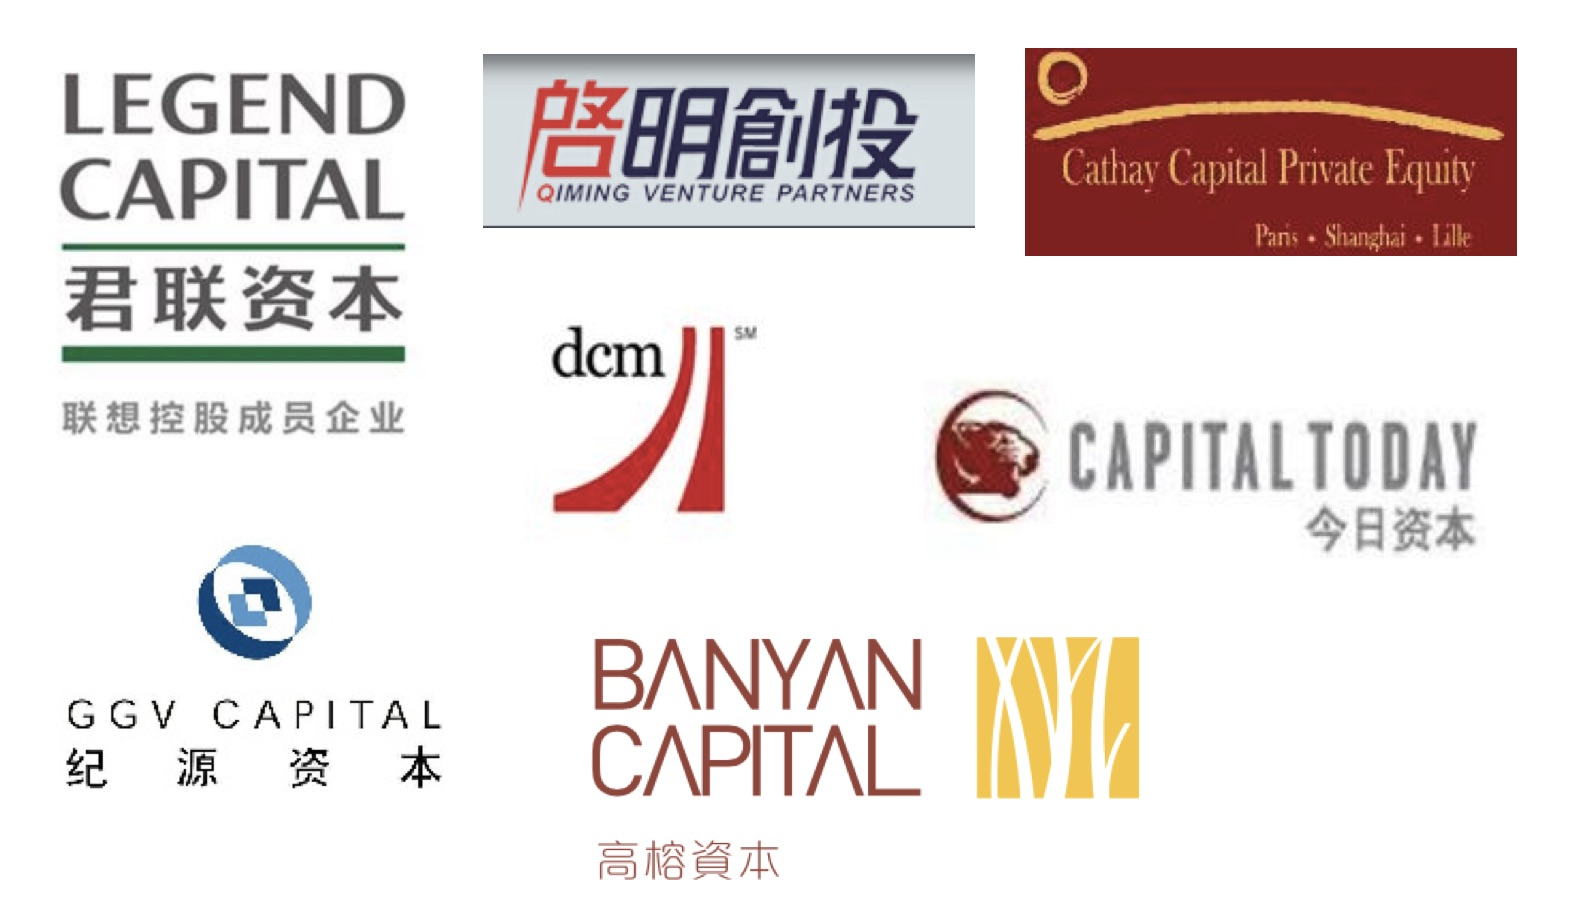
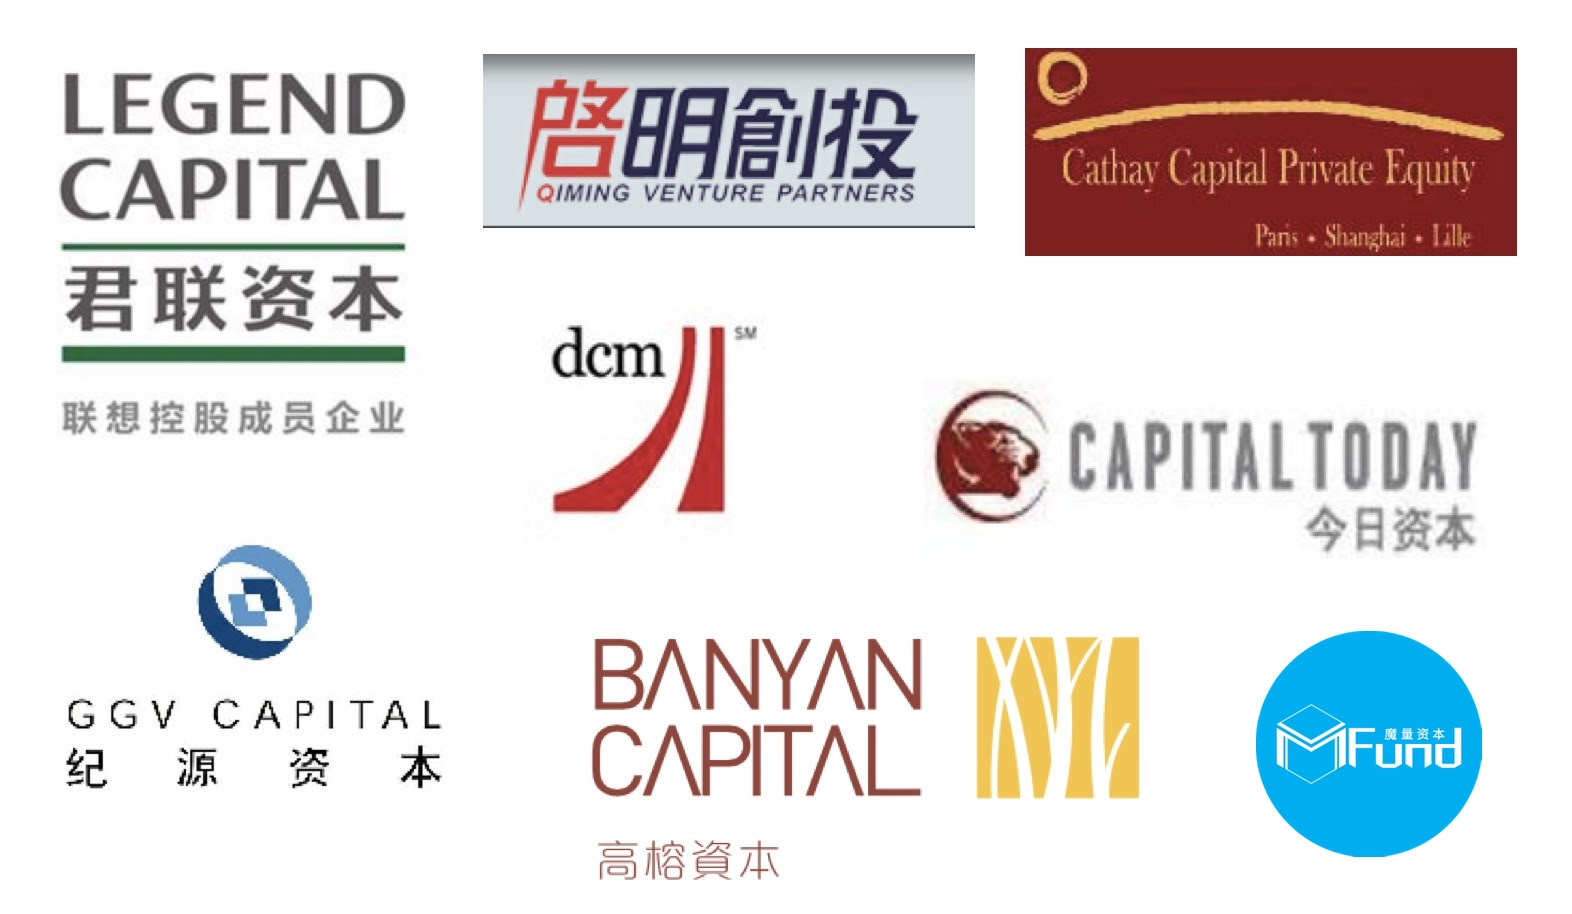
Fits mobile screen.

Changed region(s): [[0.7793, 0.674, 0.9663, 0.9497]]

diff --git a/assets/index.css b/assets/index.css
@@ -1,1 +1,1 @@
-body,html{height:100%;margin:0;font-family:-apple-system,BlinkMacSystemFont,Segoe UI,Roboto,Helvetica,Arial,sans-serif;font-size:14px;line-height:1.8em;color:#333;background-color:#fff}a{color:#555;text-decoration:none}a:hover{color:#000;border-bottom:1px solid #000}.content-wrapper{width:1000px;margin:0 auto}header{font-size:1.2rem;line-height:6rem;position:fixed;top:0;width:100%;z-index:1;background-color:hsla(0,0%,100%,.7)}.logo{display:inline-block;font-weight:700}.logo svg{position:relative;top:3px;width:19px;height:19px;margin-right:.3rem}.nav{float:right;font-weight:200}.nav a{font-size:1rem;margin-left:2.5rem}#contact-us,#our-clients{background-color:#f5f5f5}#our-service{background:url(mbg-light.jpg) no-repeat 50%;background-size:cover;height:100%}#our-service .content-wrapper{box-sizing:border-box;padding-top:85px;-webkit-flex-direction:row;-ms-flex-direction:row;flex-direction:row;height:100%}#our-service .content-wrapper,.hero{display:-webkit-flex;display:-ms-flexbox;display:flex}.hero{-webkit-flex:1;-ms-flex:1;flex:1;font-size:2.5rem;letter-spacing:1.2rem;text-align:center;line-height:100%;-webkit-justify-content:center;-ms-flex-pack:center;justify-content:center}.hero,.services-list{-webkit-align-items:center;-ms-flex-align:center;align-items:center}.services-list{width:50%}.services-list,.services-list .content-wrapper{display:-webkit-flex;display:-ms-flexbox;display:flex}.services-list .content-wrapper{background-color:hsla(0,0%,100%,.8);-webkit-justify-content:space-around;-ms-flex-pack:distribute;justify-content:space-around}.service-item{min-width:300px;background-color:hsla(0,0%,100%,.5);padding:1rem 2.4rem}.service-item dd,.service-item dt{margin:2.2rem 0}.service-item dt{font-size:1.5rem;font-weight:700;padding:0 .8rem}.service-item dd{font-size:1rem;line-height:2.2rem;margin-bottom:0}.service-item ul{padding-left:1em}#our-team{display:-webkit-flex;display:-ms-flexbox;display:flex;-webkit-align-items:center;-ms-flex-align:center;align-items:center;-webkit-justify-content:space-between;-ms-flex-pack:justify;justify-content:space-between}.section-title{font-size:2rem;margin:7rem 0;text-align:center}.team-partners{margin:3rem 0 0 220px}.partner-card{position:relative;padding-left:120px}.partner-icon{position:absolute;top:-3px;left:0;width:80px;height:80px;border-radius:40px}.partner-title{color:#aaa;line-height:1em}.partner-name{font-size:2rem;font-weight:700;margin-top:0}.team-consults{margin:8rem 0;display:-webkit-flex;display:-ms-flexbox;display:flex;-webkit-justify-content:space-around;-ms-flex-pack:distribute;justify-content:space-around}.team-consults-title{display:none}.consult-card{text-align:center}.consult-icon{width:60px;height:60px;display:none}.consult-name{font-size:1.5rem;font-weight:700}.team-pros{margin:8rem 0;font-size:1.5rem;text-align:center}#our-clients{padding:1px 0;text-align:center}.clients{padding-bottom:8rem}.client-card{min-width:160px;display:inline-block;margin:2rem 0;text-align:center}.client-card img{height:50px}.client-card p{margin-top:0;line-height:20px}#fund-clients{padding:1px 0}#fund-clients .section-title{margin-bottom:4rem}#fund-clients ul{margin:0 auto;list-style:none;text-align:center;padding:0;font-size:18px;line-height:2em}.dd-clients{text-align:center;margin-bottom:6rem}#contact-us{text-align:center;height:calc(100% - 85px);min-height:18rem;display:-webkit-flex;display:-ms-flexbox;display:flex;-webkit-align-items:center;-ms-flex-align:center;align-items:center;font-size:1.2rem}#news{padding-top:85px}.news-title{-webkit-flex:1;-ms-flex:1;flex:1;font-size:2.5rem;font-weight:400;text-align:center;line-height:100%;display:-webkit-flex;display:-ms-flexbox;display:flex;-webkit-align-items:center;-ms-flex-align:center;align-items:center;-webkit-justify-content:center;-ms-flex-pack:center;justify-content:center}.news-list{width:50%;overflow-y:auto;margin:0}.news-list dl{margin-bottom:4em}.news-list dt{font-family:georgia,serif;margin:3em 0 2em}.news-list dd{margin:2em 0 2em 3em;position:relative}.news-list a:before{content:'•';position:absolute;left:-1em}footer{line-height:85px}footer .content-wrapper{color:#777}.footer-right{float:right}@media (min-width:1600px){html{font-size:16px}.content-wrapper{width:1200px}.hero{font-size:3rem}}@media (max-width:1000px){body{color:#333}.content-wrapper{width:inherit}header{text-align:center}header .nav{display:none}.hero{font-size:1.8rem;letter-spacing:.4rem}.section-title{font-size:1.5rem}#our-service{height:calc(100% + 16rem)}.services-list{height:32rem}.services-list .content-wrapper{-webkit-flex-direction:column;-ms-flex-direction:column;flex-direction:column;-webkit-align-items:center;-ms-flex-align:center;-ms-grid-row-align:center;align-items:center}.team-partners{margin:4rem 2rem}.partner-card{padding-left:7.5rem}.team-consults{display:block}.team-consults-title{display:block;border-bottom:1px dashed #ccc;margin:3rem;font-size:1.3rem;font-weight:lighter;line-height:4em;text-align:center}.team-consults .partner-title{display:none}.consult-card{margin:5rem 0}.team-pros{padding:0 2rem}.client-card{min-width:100px}footer{padding:0 2rem}}
+body,html{height:100%;margin:0;font-family:-apple-system,BlinkMacSystemFont,Segoe UI,Roboto,Helvetica,Arial,sans-serif;font-size:14px;line-height:1.8em;color:#333;background-color:#fff}a{color:#555;text-decoration:none}a:hover{color:#000;border-bottom:1px solid #000}.content-wrapper{width:1000px;margin:0 auto}header{font-size:1.2rem;line-height:6rem;position:fixed;top:0;width:100%;z-index:1;background-color:hsla(0,0%,100%,.7)}.logo{display:inline-block;font-weight:700}.logo svg{position:relative;top:3px;width:19px;height:19px;margin-right:.3rem}.nav{float:right;font-weight:200}.nav a{font-size:1rem;margin-left:2.5rem}#contact-us,#our-clients{background-color:#f5f5f5}#our-service{background:url(mbg-light.jpg) no-repeat 50%;background-size:cover;height:100%}#our-service .content-wrapper{box-sizing:border-box;padding-top:85px;display:-ms-flexbox;display:flex;-ms-flex-direction:row;flex-direction:row;height:100%}.hero{-ms-flex:1;flex:1;font-size:2.5rem;letter-spacing:1.2rem;text-align:center;line-height:100%;-ms-flex-pack:center;justify-content:center}.hero,.services-list{display:-ms-flexbox;display:flex;-ms-flex-align:center;align-items:center}.services-list{width:50%}.services-list .content-wrapper{display:-ms-flexbox;display:flex;background-color:hsla(0,0%,100%,.8);-ms-flex-pack:distribute;justify-content:space-around}.service-item{min-width:300px;background-color:hsla(0,0%,100%,.5);padding:1rem 2.4rem}.service-item dd,.service-item dt{margin:2.2rem 0}.service-item dt{font-size:1.5rem;font-weight:700;padding:0 .8rem}.service-item dd{font-size:1rem;line-height:2.2rem;margin-bottom:0}.service-item ul{padding-left:1em}#our-team{display:-ms-flexbox;display:flex;-ms-flex-align:center;align-items:center;-ms-flex-pack:justify;justify-content:space-between}.section-title{font-size:2rem;margin:7rem 1.5rem;text-align:center}.team-partners{margin:3rem 0 0 220px}.partner-card{position:relative;padding-left:120px}.partner-icon{position:absolute;top:-3px;left:0;width:80px;height:80px;border-radius:40px}.partner-title{color:#aaa;line-height:1em}.partner-name{font-size:2rem;font-weight:700;margin-top:0}.team-consults{margin:8rem 0;display:-ms-flexbox;display:flex;-ms-flex-pack:distribute;justify-content:space-around}.team-consults-title{display:none}.consult-card{text-align:center}.consult-icon{width:60px;height:60px;display:none}.consult-name{font-size:1.5rem;font-weight:700}.team-pros{margin:8rem 0;font-size:1.5rem;text-align:center}#our-clients{padding:1px 0;text-align:center}.clients{padding-bottom:8rem}.client-card{min-width:160px;display:inline-block;margin:2rem 0;text-align:center}.client-card img{height:50px}.client-card p{margin-top:0;line-height:20px}#fund-clients{padding:1px 0}#fund-clients .section-title{margin-bottom:4rem}#fund-clients ul{margin:0 auto;list-style:none;text-align:center;padding:0;font-size:18px;line-height:2em}.dd-intro li:before{content:"•";padding-right:.6rem}.dd-clients{text-align:center;margin-bottom:6rem}#contact-us{text-align:center;height:calc(100% - 85px);min-height:18rem;display:-ms-flexbox;display:flex;-ms-flex-align:center;align-items:center;font-size:1.2rem}#news{padding-top:85px}.news-title{-ms-flex:1;flex:1;font-size:2.5rem;font-weight:400;text-align:center;line-height:100%;display:-ms-flexbox;display:flex;-ms-flex-align:center;align-items:center;-ms-flex-pack:center;justify-content:center}.news-list{width:50%;overflow-y:auto;margin:0}.news-list dl{margin-bottom:4em}.news-list dt{font-family:georgia,serif;margin:3em 0 2em}.news-list dd{margin:2em 0 2em 3em;position:relative}.news-list a:before{content:"•";position:absolute;left:-1em}footer{line-height:85px}footer .content-wrapper{color:#777}.footer-right{float:right}@media (min-width:1600px){html{font-size:16px}.content-wrapper{width:1200px}.hero{font-size:3rem}}@media (max-width:900px){body{color:#333}.content-wrapper{width:inherit}header{position:absolute;text-align:center}.nav{display:none}#our-service .content-wrapper{-ms-flex-direction:column;flex-direction:column}.hero{font-size:1.8rem;height:20%}.section-title{font-size:1.5rem}#our-service{height:100%}.services-list{-ms-flex:1;flex:1;width:100%;padding-bottom:2rem}.services-list .content-wrapper{-ms-flex-direction:column;flex-direction:column;-ms-flex-align:center;align-items:center}.team-partners{margin:4rem 2rem}.partner-card{padding-left:7.5rem}.team-consults{display:block}.team-consults-title{display:block;border-bottom:1px dashed #ccc;margin:3rem;font-size:1.3rem;font-weight:lighter;line-height:4em;text-align:center}.team-consults .partner-title{display:none}.consult-card{margin:5rem 0}.team-pros{padding:0 2rem}.client-card{min-width:100px}.dd-clients img{max-width:100%;height:auto}footer{padding:0 2rem}}

diff --git a/service-worker.js b/service-worker.js
@@ -12,7 +12,20 @@
  * WITHOUT WARRANTIES OR CONDITIONS OF ANY KIND, either express or implied.
  * See the License for the specific language governing permissions and
  * limitations under the License.
- */
+*/
+
+// DO NOT EDIT THIS GENERATED OUTPUT DIRECTLY!
+// This file should be overwritten as part of your build process.
+// If you need to extend the behavior of the generated service worker, the best approach is to write
+// additional code and include it using the importScripts option:
+//   https://github.com/GoogleChrome/sw-precache#importscripts-arraystring
+//
+// Alternatively, it's possible to make changes to the underlying template file and then use that as the
+// new base for generating output, via the templateFilePath option:
+//   https://github.com/GoogleChrome/sw-precache#templatefilepath-string
+//
+// If you go that route, make sure that whenever you update your sw-precache dependency, you reconcile any
+// changes made to this original template file with your modified copy.
 
 // This generated service worker JavaScript will precache your site's resources.
 // The code needs to be saved in a .js file at the top-level of your site, and registered
@@ -24,7 +37,7 @@
 /* eslint-disable indent, no-unused-vars, no-multiple-empty-lines, max-nested-callbacks, space-before-function-paren, quotes, comma-spacing */
 'use strict';
 
-var precacheConfig = [["/assets/avatars/icon-cy.jpg","9240f25d85f5ecbbdcafc7c065587f2c"],["/assets/avatars/icon-gsh.jpg","0f1be62f0d1e227120cef24f398a5ea8"],["/assets/avatars/icon-hj.jpg","510bb2d17ecad245b21e032f46a8bbf6"],["/assets/avatars/icon-lj.jpg","74a2a1f954d28e664c8f58e6ff73a0fa"],["/assets/avatars/icon-pxl.jpg","5a99c0bbbe0b10a403c7d4d76c1c4f4a"],["/assets/avatars/icon-yym.jpg","74b316cb31242c66c4c51f291eb62cea"],["/assets/clients/esh.png","1530bf918a50183f6574f23799aa1a49"],["/assets/clients/ftxz.png","5013db01f264c322c37914d625914143"],["/assets/clients/goodtalk.png","fac2b5af7de0136efc4289eb0824f607"],["/assets/clients/gtb.png","cdb921433071928809227c1845bcfa25"],["/assets/clients/ibaby.png","111590db93d7658ada09b84a18f83ae2"],["/assets/clients/lbyc.png","b3c5a0e2cd7df37ddcf15b91586a6574"],["/assets/clients/lxe.png","b0b7e0d7bc134567019bf3fce17b8cd6"],["/assets/clients/myzd.png","f08df781fac9413d73c13b69d757fa7a"],["/assets/clients/tbs.png","ef2f83a9130cfcea65f432b7d41505de"],["/assets/clients/xaap.png","89fe086dddeaf61a56ae856146b20124"],["/assets/clients/xmyd.png","6788b979b082c88fb14b37c4c14fbb03"],["/assets/clients/ybdc.png","297fd531d2ed294a4419f73451015809"],["/assets/clients/ydd.png","110df364c8ef25833afd509ee49fe578"],["/assets/clients/yky.png","1e3bcbaf1dc66222231abe78a11e3f85"],["/assets/funds.jpg","1da048d1d1f45ad81716789cce86c816"],["/assets/index.css","42f24e71607ac3ed9cb0c05d4b273ba1"],["/assets/index.js","a85f3bd18bb3cfba37e6a65366143f39"],["/assets/index.src.css","da0c5582d2539849dde74e5ee7ca3f17"],["/assets/mbg-light.jpg","619b17a8a445e1cb8a5a18c1ef74f492"],["/assets/mbg.jpg","3c37539e82e647049fc3fe1e6fe7663a"],["/assets/mountains-light.jpg","a89775980367a6fe2bc012d6ad7941fe"]];
+var precacheConfig = [["/assets/avatars/icon-cy.jpg","9240f25d85f5ecbbdcafc7c065587f2c"],["/assets/avatars/icon-gsh.jpg","0f1be62f0d1e227120cef24f398a5ea8"],["/assets/avatars/icon-hj.jpg","510bb2d17ecad245b21e032f46a8bbf6"],["/assets/avatars/icon-hx.jpg","f8b1f82dc9cb53774586a331f5d52341"],["/assets/avatars/icon-hx.png","c8f07b0ec953ee3c121a61d012eec30d"],["/assets/avatars/icon-lj.jpg","74a2a1f954d28e664c8f58e6ff73a0fa"],["/assets/avatars/icon-pxl.jpg","5a99c0bbbe0b10a403c7d4d76c1c4f4a"],["/assets/avatars/icon-yym.jpg","74b316cb31242c66c4c51f291eb62cea"],["/assets/clients/esh.png","1530bf918a50183f6574f23799aa1a49"],["/assets/clients/ftxz.png","5013db01f264c322c37914d625914143"],["/assets/clients/goodtalk.png","fac2b5af7de0136efc4289eb0824f607"],["/assets/clients/gtb.png","cdb921433071928809227c1845bcfa25"],["/assets/clients/ibaby.png","111590db93d7658ada09b84a18f83ae2"],["/assets/clients/lbyc.png","b3c5a0e2cd7df37ddcf15b91586a6574"],["/assets/clients/lxe.png","b0b7e0d7bc134567019bf3fce17b8cd6"],["/assets/clients/myzd.png","f08df781fac9413d73c13b69d757fa7a"],["/assets/clients/tbs.png","ef2f83a9130cfcea65f432b7d41505de"],["/assets/clients/xaap.png","89fe086dddeaf61a56ae856146b20124"],["/assets/clients/xmyd.png","6788b979b082c88fb14b37c4c14fbb03"],["/assets/clients/ybdc.png","297fd531d2ed294a4419f73451015809"],["/assets/clients/ydd.png","110df364c8ef25833afd509ee49fe578"],["/assets/clients/yky.png","1e3bcbaf1dc66222231abe78a11e3f85"],["/assets/dd-clients.jpg","8e276cfd8bf889d68298eeca923589fb"],["/assets/funds.jpg","a8aee45a555daeca5cc7ea98de587f0c"],["/assets/index.css","6c50c90c4bf212c17ca8670fc93a0aa5"],["/assets/index.js","a85f3bd18bb3cfba37e6a65366143f39"],["/assets/index.src.css","e9e701a19f87cce54d73e19b29250d0b"],["/assets/mbg-light.jpg","619b17a8a445e1cb8a5a18c1ef74f492"],["/assets/mbg.jpg","3c37539e82e647049fc3fe1e6fe7663a"],["/assets/mountains-light.jpg","a89775980367a6fe2bc012d6ad7941fe"]];
 var cacheName = 'sw-precache-v2--' + (self.registration ? self.registration.scope : '');
 
 
@@ -127,8 +140,10 @@ self.addEventListener('install', function(event) {
         );
       });
     }).then(function() {
+      
       // Force the SW to transition from installing -> active state
       return self.skipWaiting();
+      
     })
   );
 });
@@ -148,7 +163,9 @@ self.addEventListener('activate', function(event) {
         );
       });
     }).then(function() {
+      
       return self.clients.claim();
+      
     })
   );
 });
@@ -190,7 +207,12 @@ self.addEventListener('fetch', function(event) {
     if (shouldRespond) {
       event.respondWith(
         caches.open(cacheName).then(function(cache) {
-          return cache.match(urlsToCacheKeys.get(url));
+          return cache.match(urlsToCacheKeys.get(url)).then(function(response) {
+            if (response) {
+              return response;
+            }
+            throw Error('The cached response that was expected is missing.');
+          });
         }).catch(function(e) {
           // Fall back to just fetch()ing the request if some unexpected error
           // prevented the cached response from being valid.

diff --git a/assets/index.src.css b/assets/index.src.css
@@ -132,7 +132,7 @@ header {
 
 .section-title {
   font-size: 2rem;
-  margin: 7rem 0;
+  margin: 7rem 1.5rem;
   text-align: center;
 }
 
@@ -240,6 +240,11 @@ header {
   line-height: 2em;
 }
 
+.dd-intro li::before {
+  content: '•';
+  padding-right: 0.6rem;
+}
+
 .dd-clients {
   text-align: center;
   margin-bottom: 6rem;
@@ -330,21 +335,21 @@ footer .content-wrapper {
 
 /* Mobile */
 
-@media (max-width: 1000px) {
+@media (max-width: 900px) {
   body { color: #333; }
-
   .content-wrapper { width: inherit; }
 
-  header { text-align: center; }
-  header .nav { display: none; }
+  header { position: absolute; text-align: center }
+  .nav { display: none }
 
-  .hero { font-size: 1.8rem; letter-spacing: 0.4rem }
+  #our-service .content-wrapper { flex-direction: column }
+  .hero { font-size: 1.8rem; height: 20% }
 
   .section-title { font-size: 1.5rem; }
 
-  #our-service { height: calc(100% + 16rem); }
+  #our-service { height: 100%; }
 
-  .services-list { height: 32rem; }
+  .services-list { flex: 1; width: 100%; padding-bottom: 2rem; }
   .services-list .content-wrapper {
     flex-direction: column;
     align-items: center;
@@ -378,6 +383,11 @@ footer .content-wrapper {
 
   .client-card {
     min-width: 100px;
+  }
+
+  .dd-clients img {
+    max-width: 100%;
+    height: auto;
   }
 
   footer {

diff --git a/index.html b/index.html
@@ -23,7 +23,7 @@
           <a href="/#our-team">关于我们</a>
           <a href="/#our-clients">已服务企业</a>
           <a href="/#fund-clients">已服务基金</a>
-          <a href="news.html">新闻</a>
+          <!-- <a href="news.html">新闻</a> -->
           <a href="/#contact-us">联系我们</a>
         </div>
       </div>
